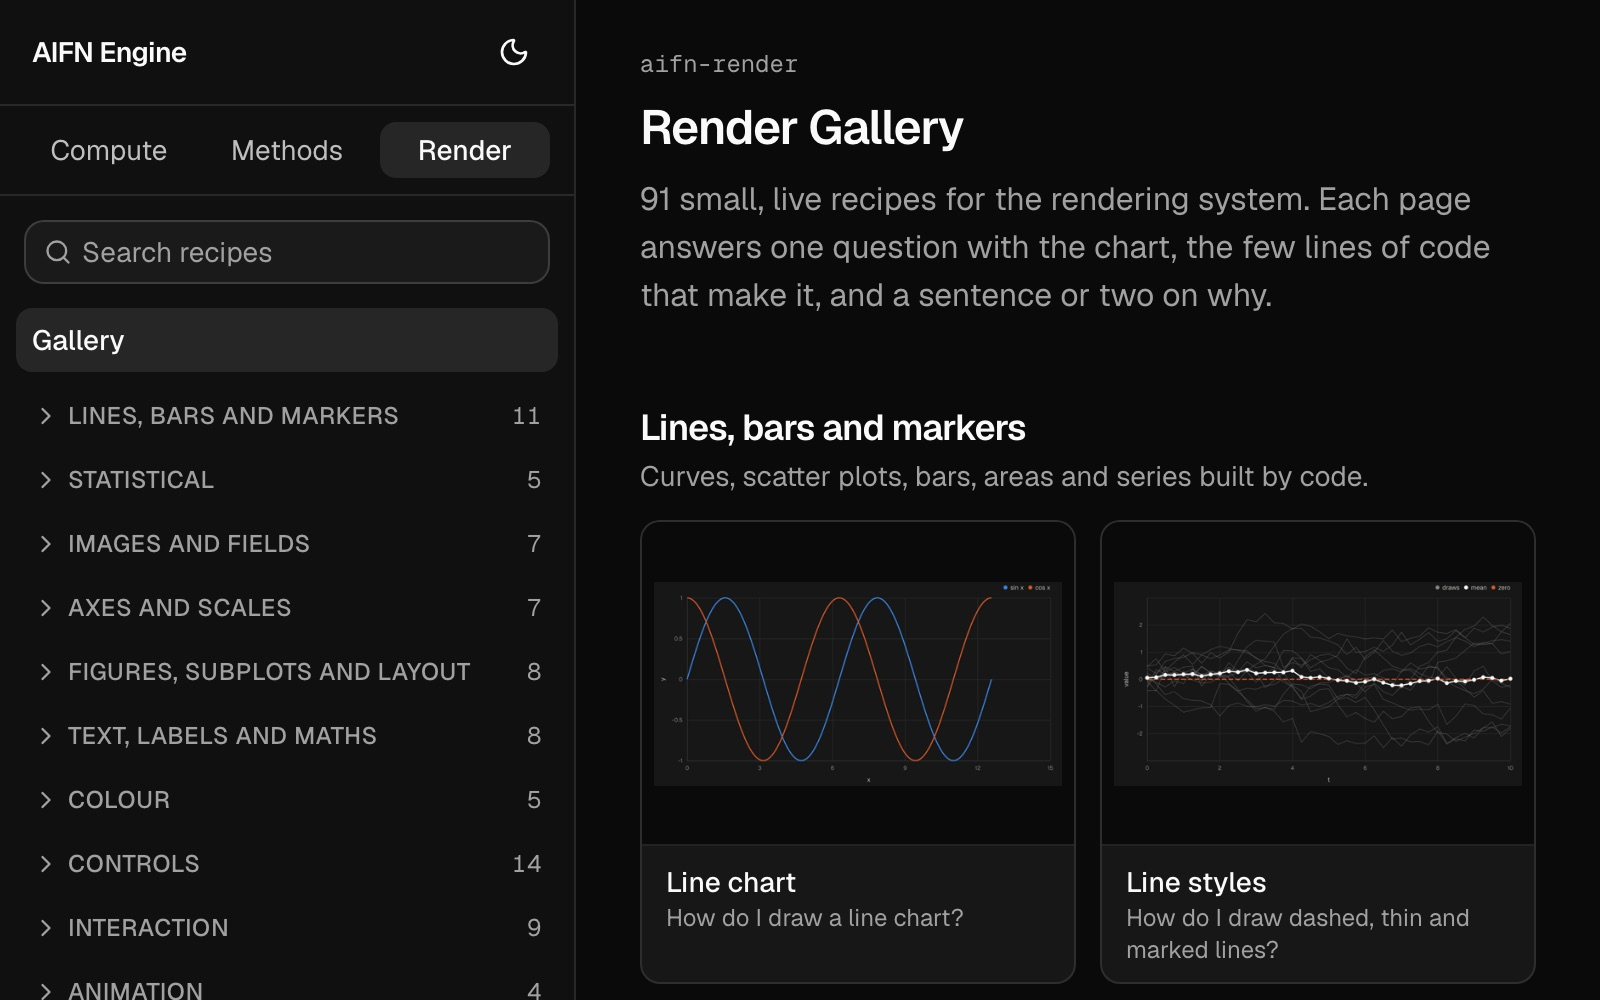
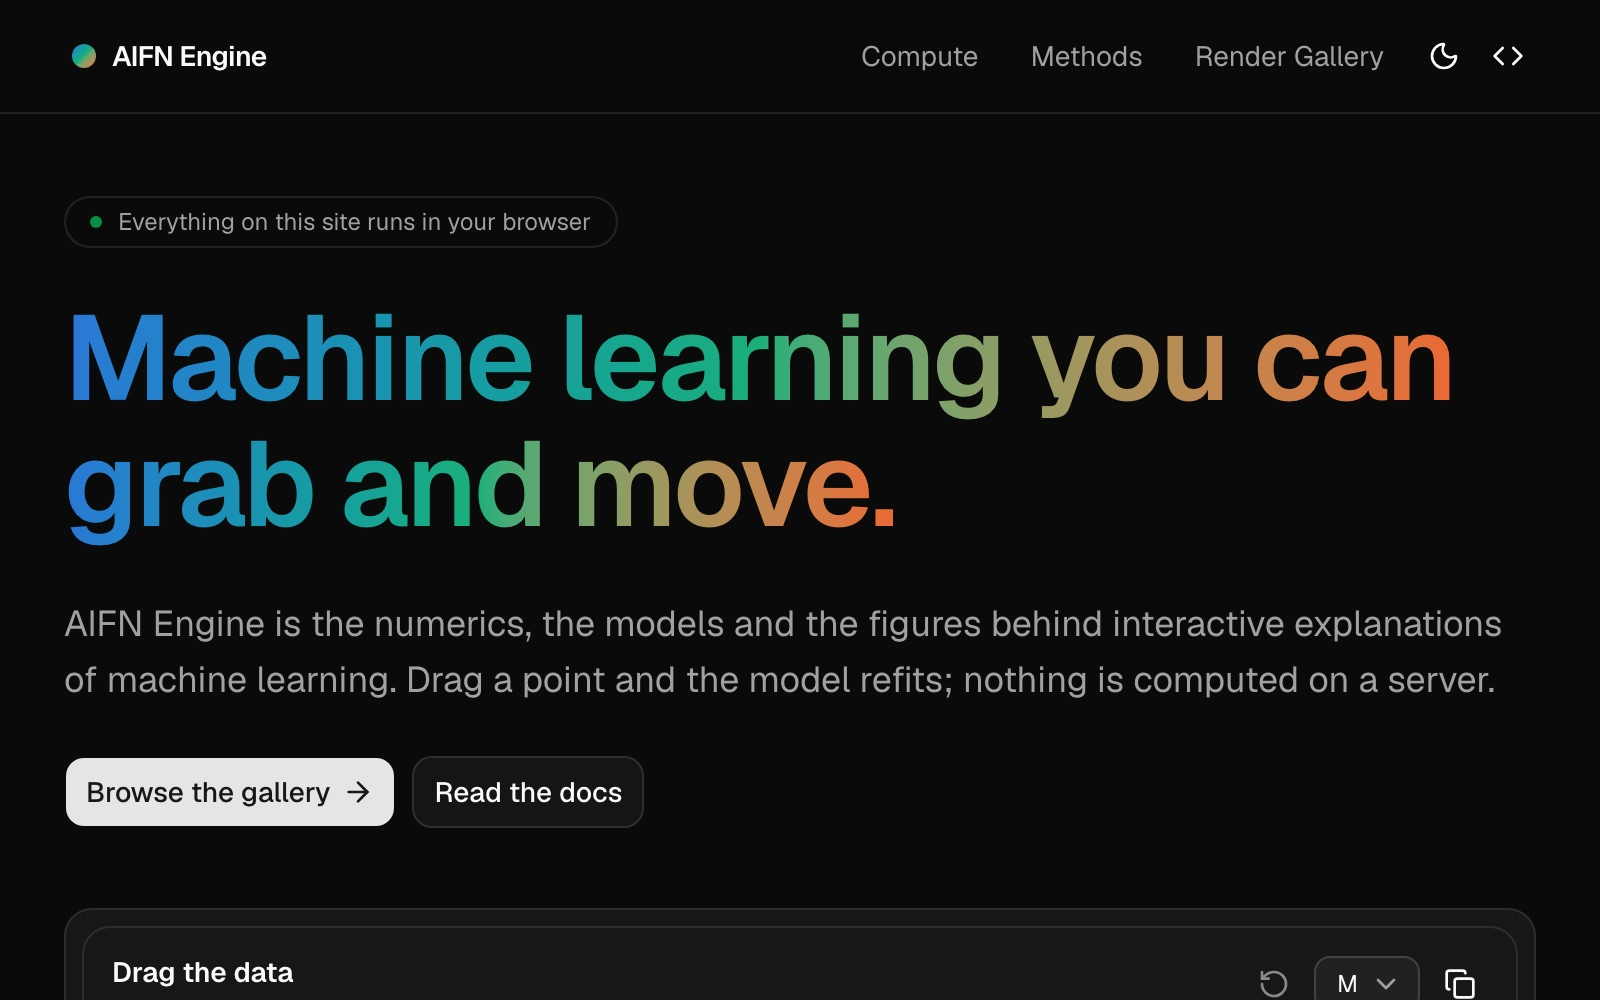
Add Knight School, and shoot the engine from its landing page
Knight School is a chess opening trainer, and goes under the AIFN
Engine. The blurb says what the three ways into it are and leaves the
rest, since it is still being built.

The AIFN Engine preview came from the render gallery, chosen when the
landing page was three boxes of prose. It is now a headline and a live
chart, which survives being 320px wide where a sidebar of grey text did
not, so the capture table goes back to the landing page and the note
about departing from one says what it would take.

Claude-Session: https://claude.ai/code/session_01JrCMbShb78JdCb6FKoPdKq

diff --git a/src/content/projects.ts b/src/content/projects.ts
@@ -70,7 +70,17 @@ export const projects: readonly Project[] = [
     stat: "3 packages · 188 modules · 15 compute families",
     image: "aifn-engine.jpg",
     imageDark: "aifn-engine-dark.jpg",
-    alt: "A gallery of live chart recipes, each showing the chart and the question it answers",
+    alt: "A landing page with a large gradient headline and the start of a chart you can drag below it",
+  },
+  {
+    name: "Knight School",
+    href: "https://www.nialltwomey.com/knightschool/",
+    blurb:
+      "A trainer for chess openings, with a few ways to work at them. Play a line through with the reason for every move, drill the moves that are due, or name an opening from a position you are shown. Drilling uses spaced repetition, so the moves stick. I am still building it.",
+    stat: "4 packages · 3 ways to learn · 27 courses",
+    image: "knightschool.jpg",
+    imageDark: "knightschool-dark.jpg",
+    alt: "A chess trainer, with a board showing the first two moves beside the name and a line on what it does",
   },
   {
     name: "DPC Gallery",
